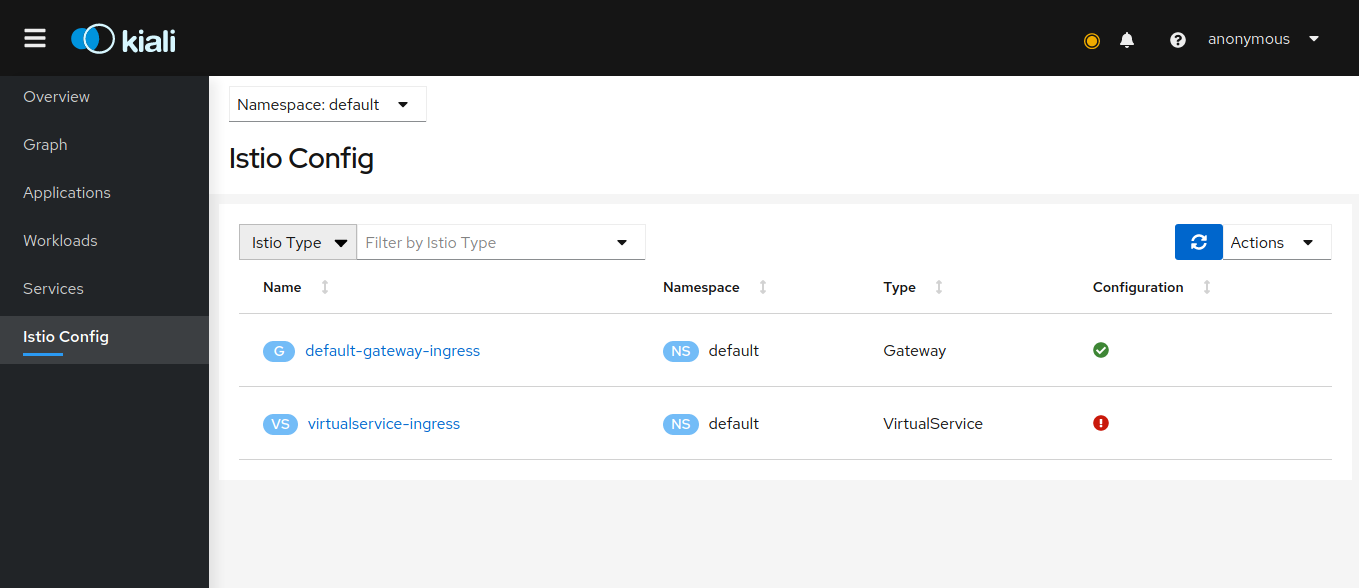
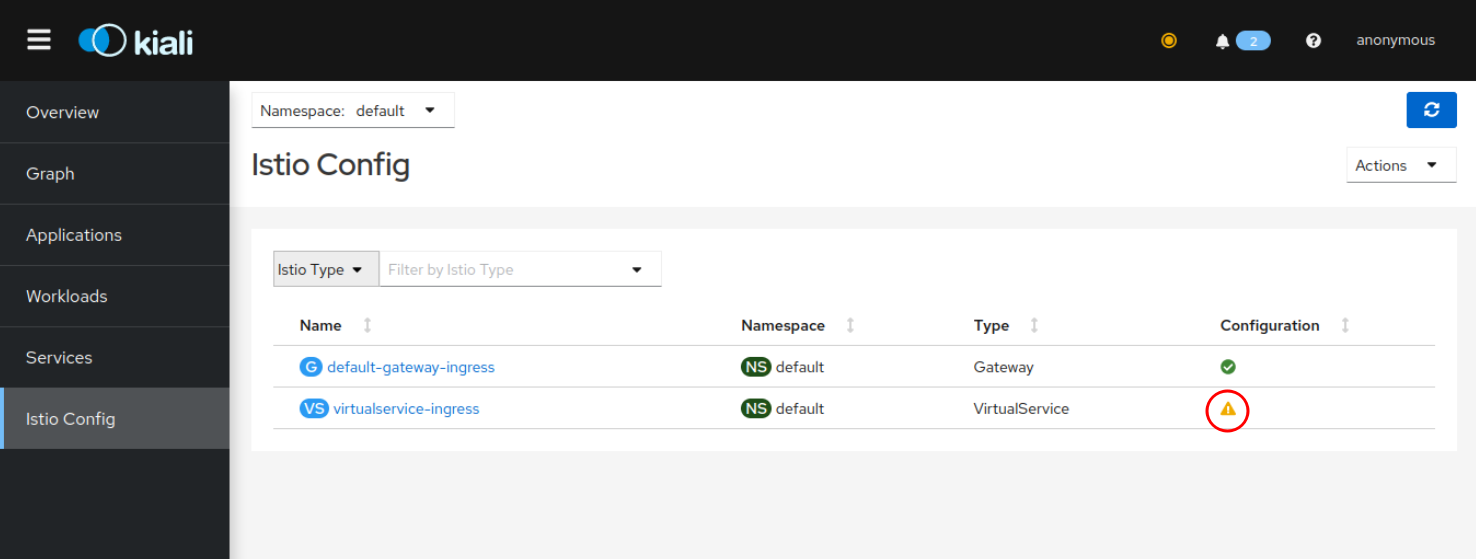
Corrections

diff --git a/workshop/02-app-env-exercise/SETUP_KEYCLOAK.md b/workshop/02-app-env-exercise/SETUP_KEYCLOAK.md
@@ -38,11 +38,11 @@ Continue when both containers are ready.
 
 Open the Keycloak URL in your browser:
 
-```sh
-https://demo.k8s.local/auth
-```
 
-You may need to accept the security risk in your browser, we are using a self-signed certificate!
+[https://demo.k8s.local/auth](https://demo.k8s.local/auth){:target="_blank"}
+
+
+You will have to accept the security risk in your browser, we are using a self-signed certificate!
 
 Note: This URL will work because we created a VirtualService in the previous exercise that maps the '/auth' URI to the Keycloak service.
 
@@ -82,6 +82,26 @@ Try to create an access token:
 ```sh
 curl -d "username=alice" -d "password=alice" -d "grant_type=password" -d "client_id=frontend" --insecure https://demo.k8s.local/auth/realms/quarkus/protocol/openid-connect/token  | sed -n 's|.*"access_token":"\([^"]*\)".*|\1|p'
 ```
+
+Result looks like this:
+
+```
+  % Total    % Received % Xferd  Average Speed   Time    Time     Time  Current
+                                 Dload  Upload   Total   Spent    Left  Speed
+100  1909  100  1841  100    68   9792    361 --:--:-- --:--:-- --:--:-- 10154
+eyJhbGciOiJSUzI1NiIsInR5cCIgOiAiSldUIiwia2lkIiA6ICJjZklBRE5feHhDSm1Wa1d5Ti1QTlhFRXZNVVdzMnI2OEN4dG1oRUROelhVIn0.
[5 lines of base64/hex data omitted]
+lZF91c2VybmFtZSI6ImFsaWNlIn0wtoXsUGsqWxa0M2r5kGAntuyWVLAPYlw4yx7xCEyBzlkN6vJOfBzHBed0YQAnOgr9nhsGh9HiX_yyOAvn8e
+gPlZJw9SSzLiiHNxIDZU85Jsf01ShUZV9QKXjhLxJ49jDldWNdRCZcnYkT7YXaG7jZIPAb_dN8evxtsHA8d2Xw8VM7PZ_XeyC1q5FP9CsENE5l8
+aXFuEVF4pS8rFNhV9RWkT4g0iSku90NEu5EeyjW7rVuEnIHhmjQh9WGOK4o6ICD9nGOuHuCEwPx-oCWtWTYh0ArpkvzfGPBkQkrXlBa8mf6nPs8
+bXtTbty6eCDJukf_53pLwVRSVaivU9x0kANw(base)
+```
+
+Note: The long block of cryptic text is a Jason Web Token (JWT) for user 'alice' created by Keycloak.
 
 ---
 

diff --git a/workshop/02-app-env-exercise/SETUP_ISTIO_INGRESS.md b/workshop/02-app-env-exercise/SETUP_ISTIO_INGRESS.md
@@ -189,7 +189,7 @@ Check the Istio configuration for namespace: Default.
 
 ![istio config](../../images/kiali-istio-config.png)
 
-Notice the red exclamation mark for the VirtualService. The VirtualService definition references 3 Kubernetes services that do not exist at the moment. these are the warnings you saw previously when appling `istio-ingress-tls.yaml`.
+Notice the warning (yellow exclamation mark) for the VirtualService. The VirtualService definition references 3 Kubernetes services that do not exist at the moment. 
 
 
 ### Step 3: Locally expose the Istio Ingress
@@ -241,7 +241,9 @@ I am not able to test this on Windows, though, so please give this method a try 
 
     The external IP address (used to be `<pending>`) is now: `10.106.56.168`
 
-    Edit your hosts file ([instructions for Windows, Mac, Linux](https://www.howtogeek.com/howto/27350/beginner-geek-how-to-edit-your-hosts-file/){:target="_blank"}), this requires root rights, and add the IP address and host name, e.g.:
+    Edit your hosts file ([instructions for Windows, Mac, Linux](https://www.howtogeek.com/howto/27350/beginner-geek-how-to-edit-your-hosts-file/){:target="_blank"}), this requires root rights, and add the IP address and host name. On bwLehrpool you can use `sudo nano /etc/hosts`. 
+    
+    Example: 
 
     ```
     ## Minikube

diff --git a/workshop/03-p-sec-exercise/02-README.md b/workshop/03-p-sec-exercise/02-README.md
@@ -35,7 +35,7 @@ mTLS is enabled by default for the communication between Envoys **but it is enab
 
 ### TASK 1: Test permissive mode
 
-In this task we access the Web-API service using the services nodeport, the IP address of a worker node, and unencrypted HTTP, effectively bypassing the Istio Ingress This is only possible because Istio is still using mTLS in permissive mode. 
+In this task we access the Web-API service via the IP address of the worker node and the services NodePort using the `minikube service` command which in turn uses unencrypted HTTP traffic, therefore effectively bypassing the Istio Ingress which uses HTTPS. This is only possible because Istio is still using mTLS in permissive mode. 
 
 #### Step 1: Create a access-token
 

diff --git a/index.md b/index.md
@@ -78,8 +78,8 @@ The last section shows how to compile and run the application locally:
 
 This workshop has been tested on the following platforms:
 
-* **Minikube**: Version 1.16.0
-* **Istio**: Version 1.8.1 
+* **Minikube**: Version 1.28.0
+* **Istio**: Version 1.16.1 
 
 
 ### Technology Used
@@ -99,7 +99,7 @@ This workshop has been tested on the following platforms:
 ### Credits
 
 * [Niklas Heidloff](https://twitter.com/nheidloff){:target="_blank"}
-* [Harald Uebele](https://twitter.com/Harald_U){:target="_blank"}
+* Harald Uebele
 * [Thomas Südbröcker](https://twitter.com/tsuedbroecker){:target="_blank"}
 
 ### Additional resources

diff --git a/workshop/02-app-env-exercise/SETUP_ISTIO.md b/workshop/02-app-env-exercise/SETUP_ISTIO.md
@@ -22,6 +22,8 @@ In the following exercises we will:
 
 Note: The workshop has been tested with and is written for Istio 1.16.1. 
 
+Note 2: If you completed the **Istio Handson** workshop recently you should have downloaded Istio 1.16.1 already, skip to step **2. Install Istio** then. 
+
 1. Get the Istio code:
 
 	```
